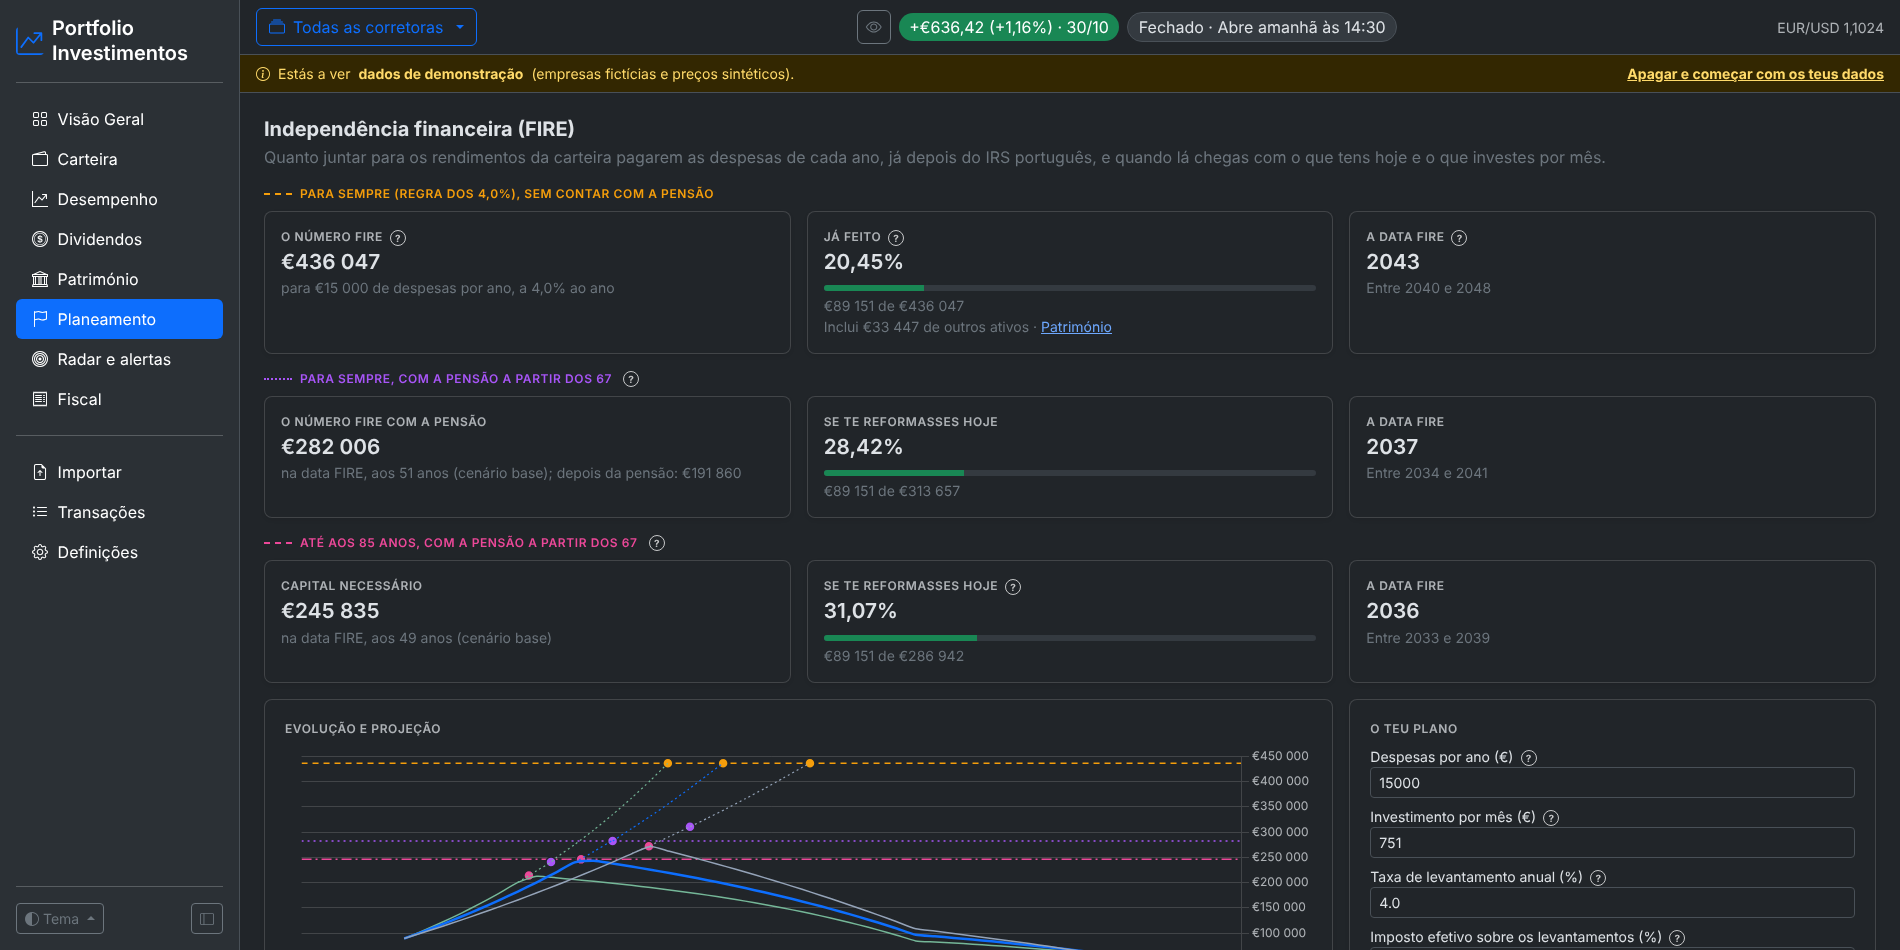
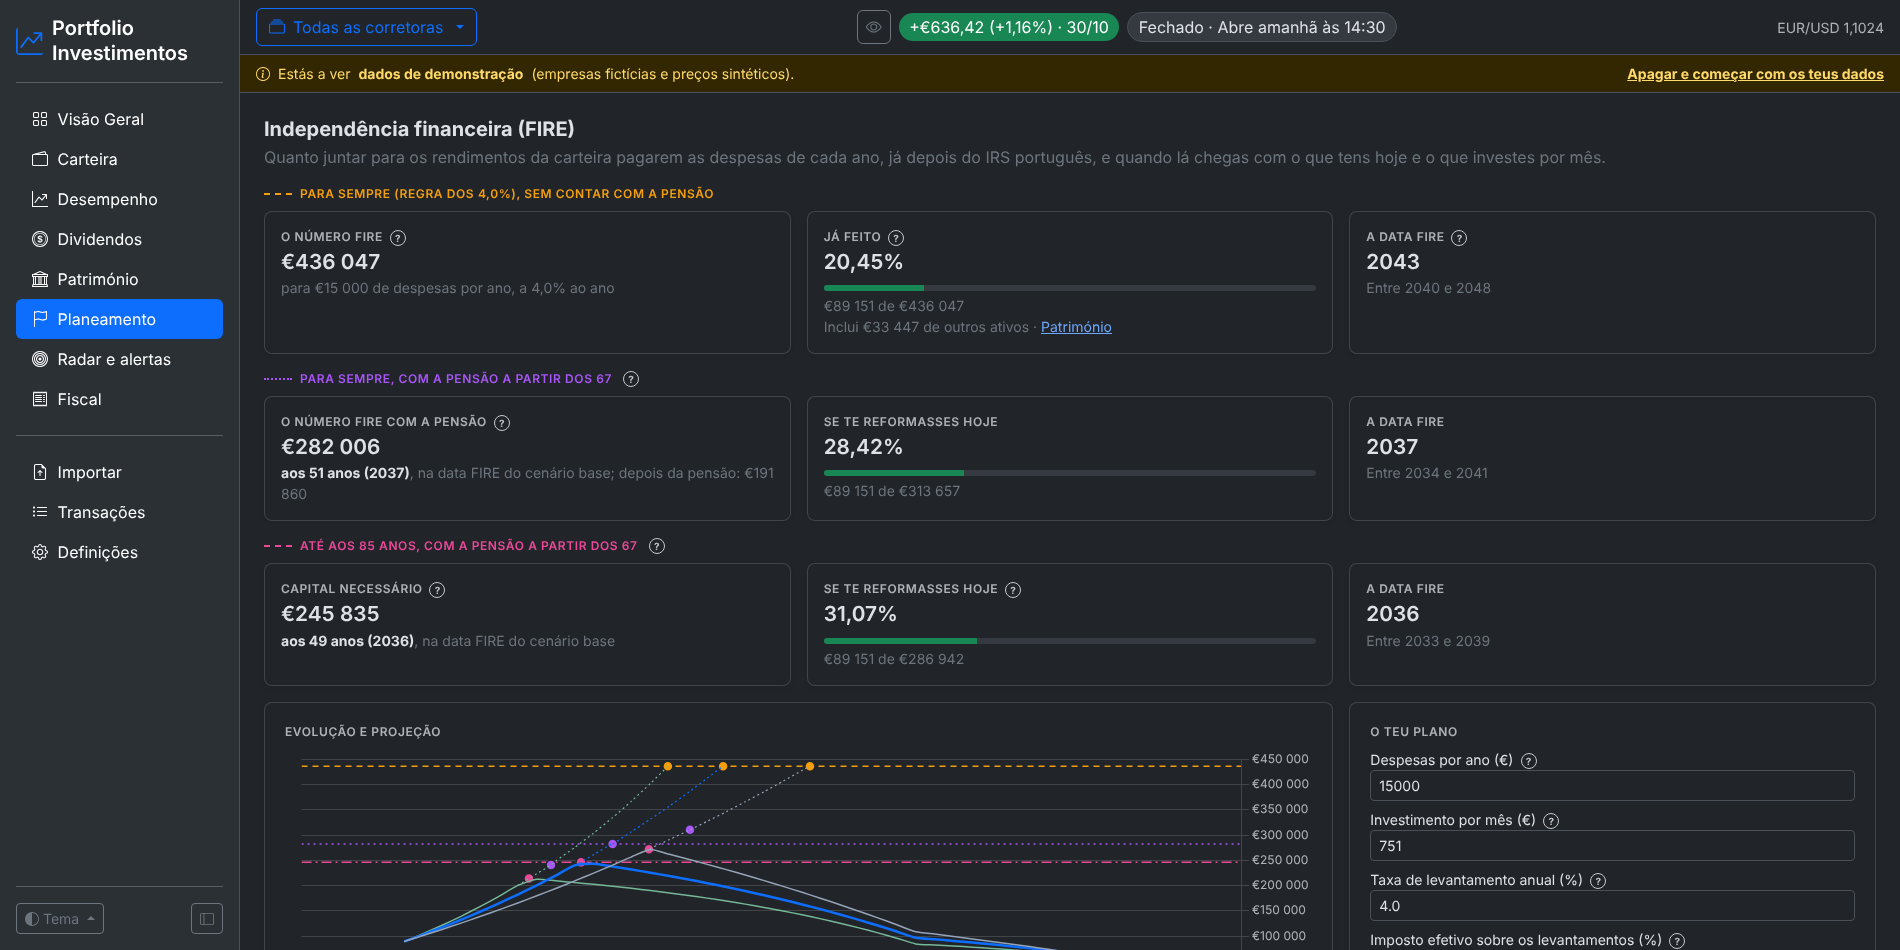
Planeamento: capital necessário com a idade e o ano, e nota sobre «investir até aos»
Confirmadas as contas: nos blocos «Para sempre, com a pensão» e «Até aos N anos», o capital necessário é o da data FIRE do cenário base e desce com a idade, porque faltam menos anos até à pensão (e até ao fim). Investir menos tempo («Investir até aos» mais cedo) faz a carteira crescer mais devagar e adia a data FIRE, por isso o valor pedido fica mais baixo, sem que seja preciso menos dinheiro. Exemplo com 30 000 €/ano, 800 €/mês, 28%, 47 anos, até aos 85 e pensão de 2 500 € aos 67 (carteira de 150 000 €): investir até aos 60 → FIRE aos 56,3 anos com 347 201 €; até aos 55 → FIRE aos 56,7 anos com 338 863 € (≈ 41 667 €/ano durante 10,7 e 10,3 anos a 5%).

Para isto ficar claro na página:
- o cartão do capital necessário põe em destaque a idade e o ano a que corresponde («aos 59 anos (2038)», na data FIRE do cenário base);
- um «?» nesse cartão explica que o capital desce com a idade e que reformar mais tarde pede menos capital, mas demora mais;
- com «Investir até aos» preenchido, uma nota: «Investir menos tempo não reduz o que precisas, adia a data; o capital pedido é menor só porque, reformando-te mais tarde, faltam menos anos até à pensão.»

Teste da nota (com e sem «Investir até aos»); capturas 15 e 16 (claro e escuro), README e histórico atualizados.

Claude-Session: https://claude.ai/code/session_01AhMv5rzh4esVFWwNf2sje8

diff --git a/portfolio_investimentos/templates/pages/planeamento.html b/portfolio_investimentos/templates/pages/planeamento.html
@@ -41,9 +41,9 @@
   {{ help("Duas partes: até à pensão, a carteira paga as despesas todas; a partir dela, só o que a pensão não cobre, pela regra da taxa de levantamento (para sempre). O capital depende da idade em que chegas lá: quanto mais cedo, mais anos até à pensão.") }}</div>
 <div class="row g-3 mb-3">
   <div class="col-md-4"><div class="pm-card pm-card-sm h-100">
-    <div class="pm-label">O número FIRE com a pensão</div>
+    <div class="pm-label">O número FIRE com a pensão {{ help("O capital necessário na data FIRE do cenário base. Desce com a idade: quanto mais tarde te reformas, menos anos tens de pagar até à pensão (e até ao fim), por isso reformar mais tarde pede menos capital, mas demora mais a lá chegar. Por isso, investir menos tempo (Investir até aos) pode mostrar um valor mais baixo: não precisas de menos, só chegas lá mais tarde.") }}</div>
     <div class="pm-mid money">{{ with_pension.number|money if with_pension.number is not none else "—" }}</div>
-    <div class="small text-secondary">{% if with_pension.age_at %}na data FIRE, aos {{ with_pension.age_at|round|int }} anos (cenário base){% else %}não chega antes dos {{ cfg.until|int }} anos{% endif %};
+    <div class="small text-secondary">{% if with_pension.age_at %}<b class="text-body">aos {{ with_pension.age_at|round|int }} anos ({{ with_pension.date.year }})</b>, na data FIRE do cenário base{% else %}não chega antes dos {{ cfg.until|int }} anos{% endif %};
       depois da pensão: <span class="money">{{ with_pension.after|money }}</span></div>
   </div></div>
   <div class="col-md-4"><div class="pm-card pm-card-sm h-100">
@@ -70,9 +70,9 @@
   {{ help("Capital que paga as despesas (já com o IRS dos levantamentos) desde a data FIRE até à idade indicada, a render a taxa real do cenário, e acaba perto de zero. A pensão, se indicada, abate às despesas. É menos do que o número FIRE «para sempre», sobretudo para quem se reforma tarde.") }}</div>
 <div class="row g-3 mb-3">
   <div class="col-md-4"><div class="pm-card pm-card-sm h-100">
-    <div class="pm-label">Capital necessário</div>
+    <div class="pm-label">Capital necessário {{ help("O capital necessário na data FIRE do cenário base. Desce com a idade: quanto mais tarde te reformas, menos anos tens de pagar até à pensão (e até ao fim), por isso reformar mais tarde pede menos capital, mas demora mais a lá chegar. Por isso, investir menos tempo (Investir até aos) pode mostrar um valor mais baixo: não precisas de menos, só chegas lá mais tarde.") }}</div>
     <div class="pm-mid money">{{ life.number|money if life.number else "—" }}</div>
-    <div class="small text-secondary">{% if life.age_at %}na data FIRE, aos {{ life.age_at|round|int }} anos (cenário base){% else %}não chega antes dos {{ (life.until_age - 1)|int }} anos{% endif %}</div>
+    <div class="small text-secondary">{% if life.age_at %}<b class="text-body">aos {{ life.age_at|round|int }} anos ({{ life.date.year }})</b>, na data FIRE do cenário base{% else %}não chega antes dos {{ (life.until_age - 1)|int }} anos{% endif %}</div>
   </div></div>
   <div class="col-md-4"><div class="pm-card pm-card-sm h-100">
     <div class="pm-label">Se te reformasses hoje {{ help("Capital necessário para viver desde hoje até à idade indicada, e a parte que já tens.") }}</div>
@@ -86,6 +86,12 @@
     <div class="small text-secondary">{% if life.earliest and life.latest %}Entre {{ life.earliest.year }} e {{ life.latest.year }}{% elif life.earliest %}A partir de {{ life.earliest.year }}{% else %}Não chega com estes valores{% endif %}</div>
   </div></div>
 </div>
+{% if cfg.stop_age and life.age_at %}
+<div class="alert alert-secondary small d-flex gap-2 align-items-start mb-3" id="stopAgeNote"><i class="bi bi-info-circle"></i>
+  <div>Deixas de investir aos {{ cfg.stop_age|int }}: a data FIRE (cenário base) é aos <b>{{ life.age_at|round|int }} anos ({{ life.date.year }})</b>.
+    Investir menos tempo não reduz o que precisas, adia a data; o capital pedido é menor só porque, reformando-te mais tarde, faltam menos anos{% if life.pension %} até à pensão{% endif %}.</div>
+</div>
+{% endif %}
 {% elif not cfg.age %}
 <p class="small text-secondary">Indica a tua idade em «O teu plano» para ver também o capital necessário até uma certa idade (por exemplo, até aos 90 anos), com a pensão, em vez de um capital que dura para sempre.</p>
 {% endif %}

diff --git a/tests/test_app.py b/tests/test_app.py
@@ -768,6 +768,7 @@ def test_planning_fire_page_and_settings(app, client):
     assert [tg["label"] for tg in chart["targets"]] == ["Para sempre", "Para sempre, com a pensão aos 67",
                                                         "Até aos 90 anos, com a pensão aos 67"]
     assert len({tg["color"] for tg in chart["targets"]}) == 3
+    assert 'id="stopAgeNote"' not in html  # sem «Investir até aos», sem nota
     # quando cada cenário chega a cada número FIRE: tabela e pontos no gráfico
     assert 'id="fireReach"' in html and "Quando chegas a cada número FIRE" in html
     assert [mk["label"] for mk in chart["markers"]] == [tg["label"] for tg in chart["targets"]]
@@ -785,6 +786,9 @@ def test_planning_fire_page_and_settings(app, client):
                 until="90", stop_age="55").status_code == 200
     html = client.get("/planeamento").get_data(as_text=True)
     assert "ou até aos 55 anos" in html and "O dinheiro dura" in html
+    # a nota explica que investir menos tempo adia a data FIRE (o capital pedido é o dessa data)
+    assert 'id="stopAgeNote"' in html and "Investir menos tempo não reduz o que precisas" in html
+    assert "na data FIRE do cenário base" in html
     assert post(client, "save_fire", token, expenses="24000", swr="4", tax="0", monthly="500", age="45",
                 until="90", stop_age="40").status_code == 400
     assert post(client, "save_fire", token, expenses="0", swr="4", tax="0", monthly="0").status_code == 400

diff --git a/README.md b/README.md
@@ -184,7 +184,7 @@ O tema escolhe-se no botão **Tema**, no fundo da barra lateral: Claro, Escuro o
 | **Desempenho** | Retorno total e IRR, TWR e CAGR vs índice, melhor/pior ano e mês, sequência atual; TWR anual e acumulado; drawdown; mapa de retornos mensais; mérito vs mercado (captura em alta/baixa, beta, % de meses acima do mercado); risco (Sharpe, Sortino, Calmar, volatilidade, max drawdown); alfa de Jensen e distribuição mensal ordenada. |
 | **Dividendos** | Recebido líquido/bruto e retenção na fonte, maior pagador, meses com dividendos, rendimento anualizado, crescimento anual. **Projeção** do ano e dos próximos 12 meses com os dividendos recebidos e, para posições recentes, os dividendos por ação do Yahoo, com a origem de cada valor. Dividendos por ano, decomposição do crescimento, **mapa mensal com a linha do próximo ano**, **datas ex-dividendo** (recebido, a receber, sem direito por ter comprado depois, previsto), yield on cost e histórico. |
 | **Património** | A carteira das corretoras mais os outros ativos e dívidas que indicas à mão (contas à ordem, depósitos a prazo, certificados, PPR, imóveis, outros, créditos), separados por camadas de liquidez (imediata, curto prazo, ilíquido) e nunca somados num único total: património líquido total e património líquido disponível (só imediata e curto prazo); meses de reserva (liquidez imediata ÷ despesas mensais do Planeamento); imóveis pelo valor líquido de dívida (crédito ligado ao imóvel) com desconto opcional de 5% ou 10% para os custos de venda; casa de habitação própria fora do FIRE; alocação por camada e categoria com e sem a casa própria; evolução mensal por camada; «De onde veio o crescimento», ano a ano (poupança investida, valorização do mercado, outros ativos financeiros, imóveis e amortização da dívida); «Atualizar valores», um formulário mensal com todos os ativos e dívidas, com lembrete (também na Visão Geral) quando um valor passa um mês sem atualizar; aviso nos valores com mais de 90 dias; cada ativo pode somar-se à carteira no Planeamento (FIRE). Na Visão Geral, o património líquido total e o disponível aparecem por baixo do valor da carteira. |
-| **Planeamento** | Independência financeira (FIRE): o número FIRE «para sempre» (regra dos 4%), «para sempre, com a pensão» e «até aos N anos, com a pensão», já depois do IRS dos levantamentos; a parte já feita; a data em três cenários (3%, 5% e 7% reais ao ano), a investir até à data FIRE (ou até uma idade) e a levantar daí em diante; o gráfico da vida inteira com os números FIRE a tracejado e quando cada cenário chega a cada um (tabela e pontos no gráfico); nota quando a pensão cobre as despesas; os outros ativos marcados em Património somam-se à carteira; até quando dura o dinheiro em cada cenário; acompanhamento mês a mês. |
+| **Planeamento** | Independência financeira (FIRE): o número FIRE «para sempre» (regra dos 4%), «para sempre, com a pensão» e «até aos N anos, com a pensão», já depois do IRS dos levantamentos; a parte já feita; a idade e o ano a que corresponde cada capital necessário (com uma nota quando «investir até aos» adia a data FIRE: o capital pedido desce só porque faltam menos anos até à pensão); a data em três cenários (3%, 5% e 7% reais ao ano), a investir até à data FIRE (ou até uma idade) e a levantar daí em diante; o gráfico da vida inteira com os números FIRE a tracejado e quando cada cenário chega a cada um (tabela e pontos no gráfico); nota quando a pensão cobre as despesas; os outros ativos marcados em Património somam-se à carteira; até quando dura o dinheiro em cada cenário; acompanhamento mês a mês. |
 | **Radar e alertas** | Alertas de preço (acima, abaixo, variação diária) e lista de observação com preço-alvo. |
 | **Fiscal** | Por ano: mais-valias pelo método FIFO resumidas por ativo (as linhas de cada lote abrem a pedido e vão todas no CSV), dividendos com o crédito de imposto estrangeiro limitado a cada dividendo, juros e estimativa de imposto a 28% (Portugal). |
 | **Importar** | Extratos da Trading 212 (CSV), XTB (XLSX), Trade Republic (CSV) e CSV genérico, com deduplicação (podes carregar o mesmo ficheiro várias vezes) e histórico de extratos. Antes de importar fica uma cópia automática da base de dados. |

diff --git a/CHANGELOG.md b/CHANGELOG.md
@@ -4,7 +4,9 @@ O que mudou em cada commit, do mais recente para o mais antigo (gerado a partir 
 
 ## 2026-11-01
 
-- **Esconder valores: botão também no telemóvel**  
+- **Planeamento: o capital necessário com a idade e o ano, e nota sobre «investir até aos»**  
+  As contas estavam certas: nos blocos «com a pensão» e «até aos N anos», o capital necessário é o da data FIRE e desce com a idade (menos anos até à pensão), por isso investir menos tempo, que adia a data, mostrava um valor mais baixo. A página passa a pôr em destaque a idade e o ano a que corresponde cada valor, a explicá-lo no «?» e, com «Investir até aos» preenchido, a mostrar uma nota: investir menos tempo não reduz o que precisas, adia a data.
+- **Esconder valores: botão também no telemóvel** `64fa0c3`  
   No telemóvel (menos de 768 px) o grupo do meio da barra de topo esconde-se e o botão do olho ia com ele. Passa a haver um botão do olho à direita da barra de topo nos ecrãs pequenos; o seletor de corretora encolhe (texto truncado) para caberem os dois.
 - **README: revisão e capturas da Visão Geral** `7e37762`  
   Capturas 02, 03 e 04 (claro e escuro) refeitas com os gráficos novos dos principais movers. Tabela de funcionalidades pela ordem do menu; secção «Cotações» com o histórico de dividendos, os eventos e os dados fundamentais (fontes, frequência e correção manual); «Próximos passos» sem a exposição geográfica, que já existe; «Estrutura» com os módulos novos.
